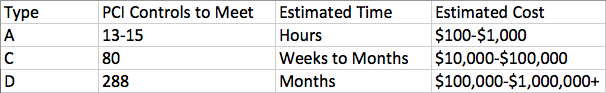
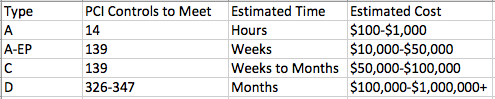
Updating the cost differences between the different solutions.

diff --git a/DrupalPCICompliance.md b/DrupalPCICompliance.md
@@ -173,7 +173,7 @@ For the purposes of a typical Drupal eCommerce site, the SAQ A, A-EP, C, and D a
 
 *Figure 3. Approximate PCI compliance costs per SAQ type. Factors include audits ($30,000-$100,000), time spent meeting each requirement, etc.*
 
-For many eCommerce stores, selecting a payment method that places them in type C or D can be cost prohibitive. However, achieving SAQ A is not always possible given the available payment gateway options that can satisfy a business's feature requirements, which drives the expansion or reduction of the CDE and ultimately determines the validation type.
+For many eCommerce stores, selecting a payment method that places them in type C or D can be cost prohibitive. However, achieving SAQ A or A-EP is not always possible given the available payment gateway options that can satisfy a business's feature requirements, which drives the expansion or reduction of the CDE and ultimately determines the validation type.
 
 ### Drupal Specific Examples
 
